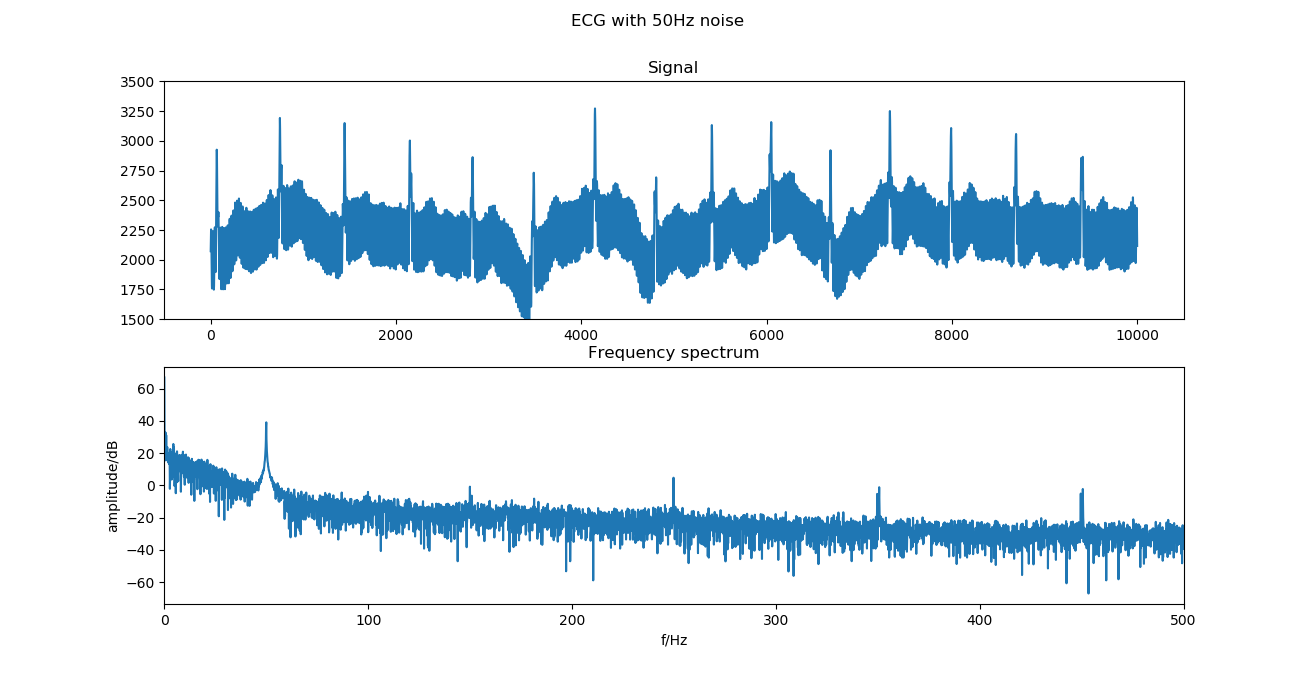
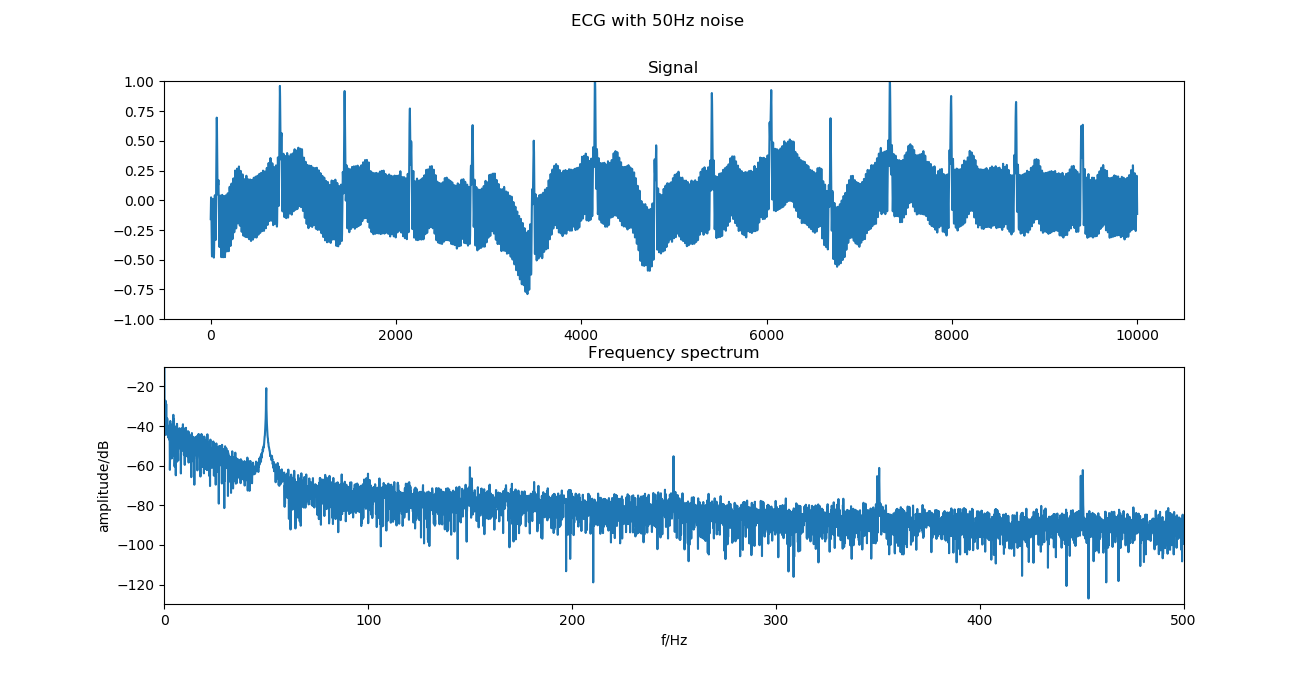
Played a bit with the filters and removed DC / scaled.

diff --git a/demo/plot_ecg_filt.py b/demo/plot_ecg_filt.py
@@ -10,17 +10,19 @@ def plot_if(figno,name,figtitle):
     plt.figure(figno)
     plt.suptitle(figtitle)
     fs = 1000
-    y = np.loadtxt(name);
+    y = np.loadtxt(name) / 1000
+    y2 = y - np.mean(y)
     plt.subplot(211)
     plt.title("Signal")
-    plt.ylim(1500,3500)
-    plt.plot(y);
+    plt.ylim(-1,1)
+    plt.plot(y2);
     #
     # Fourier Transform
     yf = scipy.fft(y) / len(y)
     plt.subplot(212)
-    plt.plot(scipy.linspace(0,fs,len(yf)),20*np.log10(abs(yf)))
+    plt.plot(scipy.linspace(0,fs,len(yf)),20*np.log10(np.abs(yf)))
     plt.xlim(0,fs/2)
+    plt.ylim(-130,-10)
     plt.title("Frequency spectrum")
     plt.xlabel("f/Hz")
     plt.ylabel("amplitude/dB")

diff --git a/demo/ecg50hzfilt.cpp b/demo/ecg50hzfilt.cpp
@@ -12,7 +12,7 @@ int main (int,char**)
 	iirnotch.setup(fs,mains);
 
         const float ecg_max_f = 100;
-	Iir::Butterworth::LowPass<6> lp;
+	Iir::Butterworth::LowPass<4> lp;
 	lp.setup(fs,ecg_max_f);
 
 	FILE *finput = fopen("ecg50hz.dat","rt");
@@ -22,6 +22,7 @@ int main (int,char**)
 	{
 		float a;
 		if (fscanf(finput,"%f\n",&a)<1) break;
+		a = a - 2250;
 		a = lp.filter(a);
 		a = iirnotch.filter(a);
 		fprintf(foutput,"%f\n",a);
